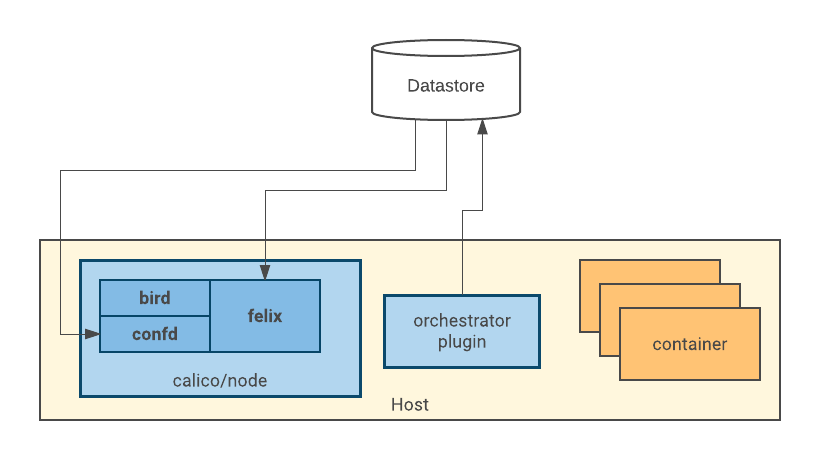
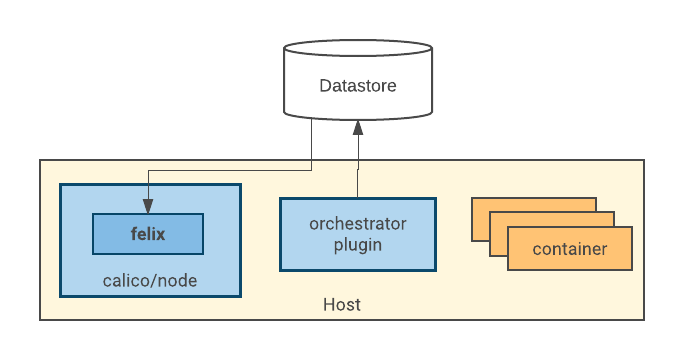
filled out text

Changed region(s): [[0.0307, 0.0611, 0.9518, 0.9167]]

diff --git a/master/introduction/component-architecture.md b/master/introduction/component-architecture.md
@@ -7,31 +7,33 @@ Note: The following applies only to **container** deployments.
 ![component architecture overview](/images/component-architecture.png)
 
 **Datastore:**
-- Central Datastore
-- traditionally etcd, but thanks to the datastore abstraction layer, can use kubernetes apiserver directly,
-and in the future even more key-value stores.
-- arrows towards components indicate those components read / watch datastore.
-- arrows towards datastore represent writes
+
+Calico stores cluster state in a central datastore.
+Most deployments use Etcd for this purpose, but thanks to the datastore abstraction layer,
+Calico can use kubernetes apiserver directly, and in the future will support even more key-value stores.
+
+In the above diagram, arrows pointing away from the datastore
+indicates that a component reads or watches the datastore.
+Arrows towards the datastore represent that a component writes data to etcd.
 
 **Orchestrator Plugin:**
-- cni-plugin for most orchestrators, libnetwork-plugin for Docker-as-an-orchestrator
-- oneshot
-- responsible for setting up container namespace and storing data about it in datastore.
 
-**calico/node:**
-- Container used to distribute and run calico core components.
-- Easily launched using `calicoctl` utility.
+Calico's orchestrator plugins respond respond to networking
+requests made by the orchestrator. Most Orchestrators implement the CNI spec, which
+runs networking plugins as a oneshot each time a container is created or destroyed,
+leaving the responsibilty of setting up or destroying the container namespace.
 
 **felix:**
-- Calico's core engine
-- long-running daemon process
-- Enforces policy
 
-**conf.d:**
-- Watches datastore for host entries.
-- Creates bird configurations used to establish BGP connections with other hosts
-(or VRRs, or ToR, etc.)
+Felix is Calico's core engine. It is a long-running daemon process responsible
+for implementing network policy for the containers on each host.
 
-**bird:**
-- BGP daemon
-- Shares routes with other hosts.
+**calico/node:**
+
+Calico ships Felix in a Docker container named `calico/node`
+for easier distribution. This container is run in host networking mode with some privileges
+to allow it to manipulate the hosts networking.
+
+Some orchestrators provide a means for running this
+container using the orchestrator itself. For ones that do not, Calico's
+command line tool `calicoctl` can be used to easily launch it.

diff --git a/master/introduction/network-architecture.md b/master/introduction/network-architecture.md
@@ -6,6 +6,6 @@ The following overview is only valid for **container** deployments:
 
 ![network architecture](/images/container-networking.layout.png)
 
-- container gets single interface
-- host is its L3 nexthop
-  - containers on same host are still L3 hop away
+Each container is given a veth pair, with one end in the host namespace and the other
+pushed into the container namespace.
+Containers on the same host are still a layer-3 hop away from one another.
